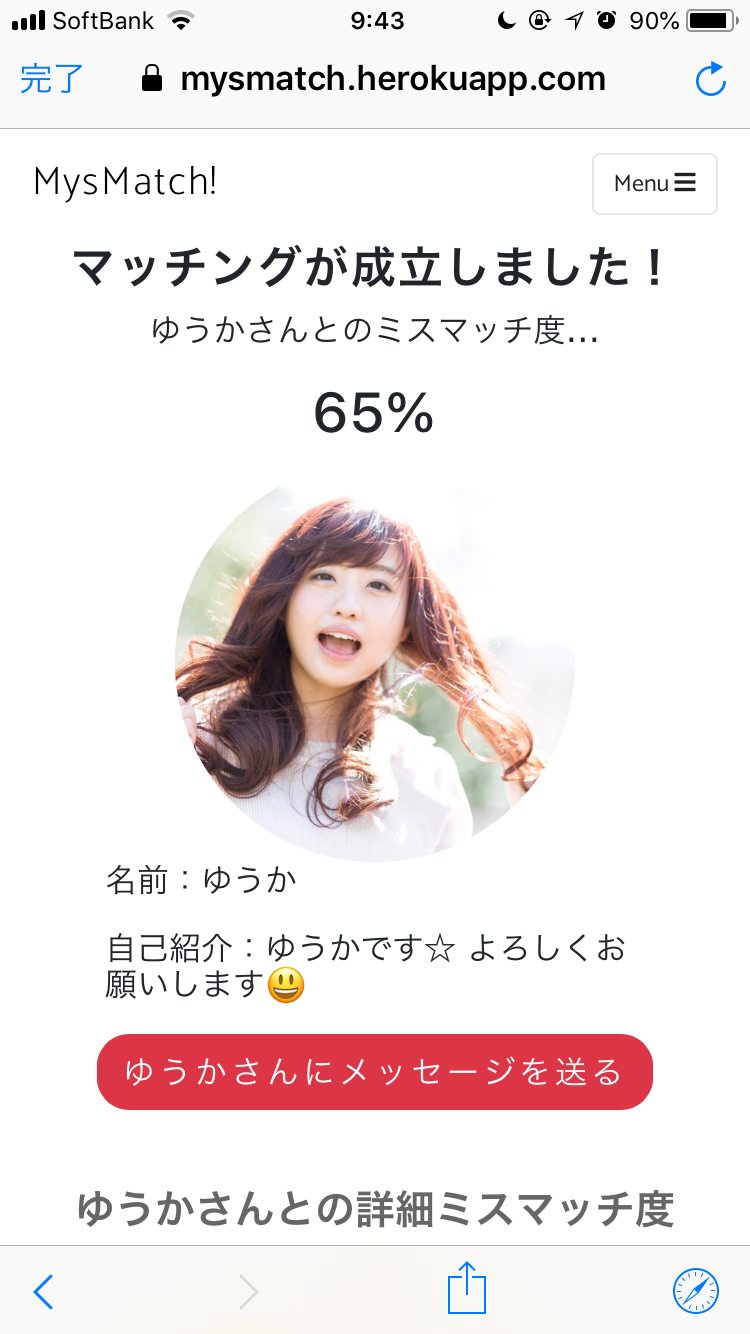
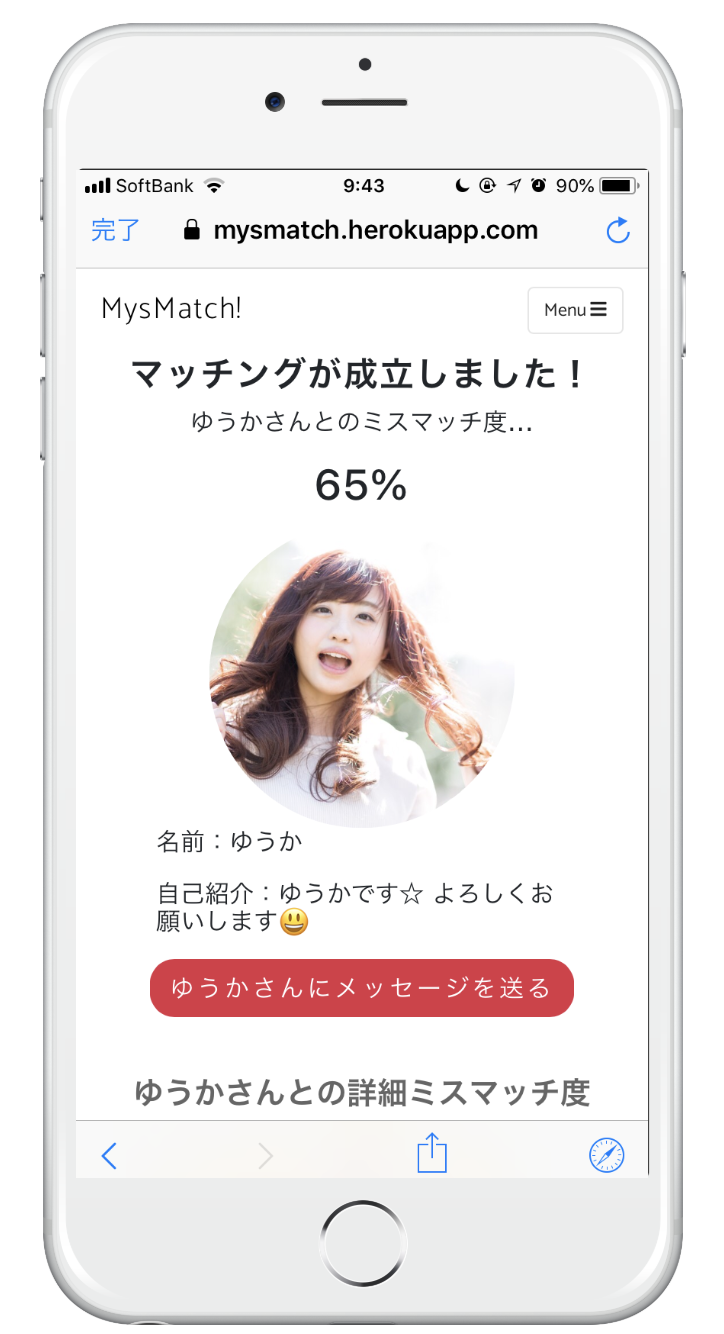
ポートフォリオimageサイズ変更

Changed region(s): [[0.0304, 0.0, 1.0, 1.0], [0.7293, 0.6454, 0.7597, 0.6762]]

diff --git a/index.html b/index.html
@@ -395,7 +395,7 @@
 				</div>
 				<div class="col-md-4">
 					<div class="fh5co-blog animate-box">
-						<a href="https://mysmatch.herokuapp.com/" class="blog-bg mysmatch" style="background-image: url(images/mysmatch.png);"></a>
+						<a href="https://mysmatch.herokuapp.com/" class="blog-bg" style="background-image: url(images/mysmatch.png);"></a>
 						<div class="blog-text">
 							<span class="posted_on">Aug. 28th 2018</span>
 							<h3><a href="https://mysmatch.herokuapp.com/">MysMatch!</a></h3>

diff --git a/css/style.css b/css/style.css
@@ -814,7 +814,7 @@ h1, h2, h3, h4, h5, h6, figure {
 .fh5co-blog .blog-bg {
   display: block;
   width: 100%;
-  background-size: cover;
+  background-size: contain;
   background-position: center center;
   background-repeat: no-repeat;
   position: relative;
@@ -1319,8 +1319,4 @@ input[type="text"] {
 
 .feature-left{
   width: 100%;
-}
-
-.fh5co-blog .mysmatch{
-  background-size: contain;
 }
